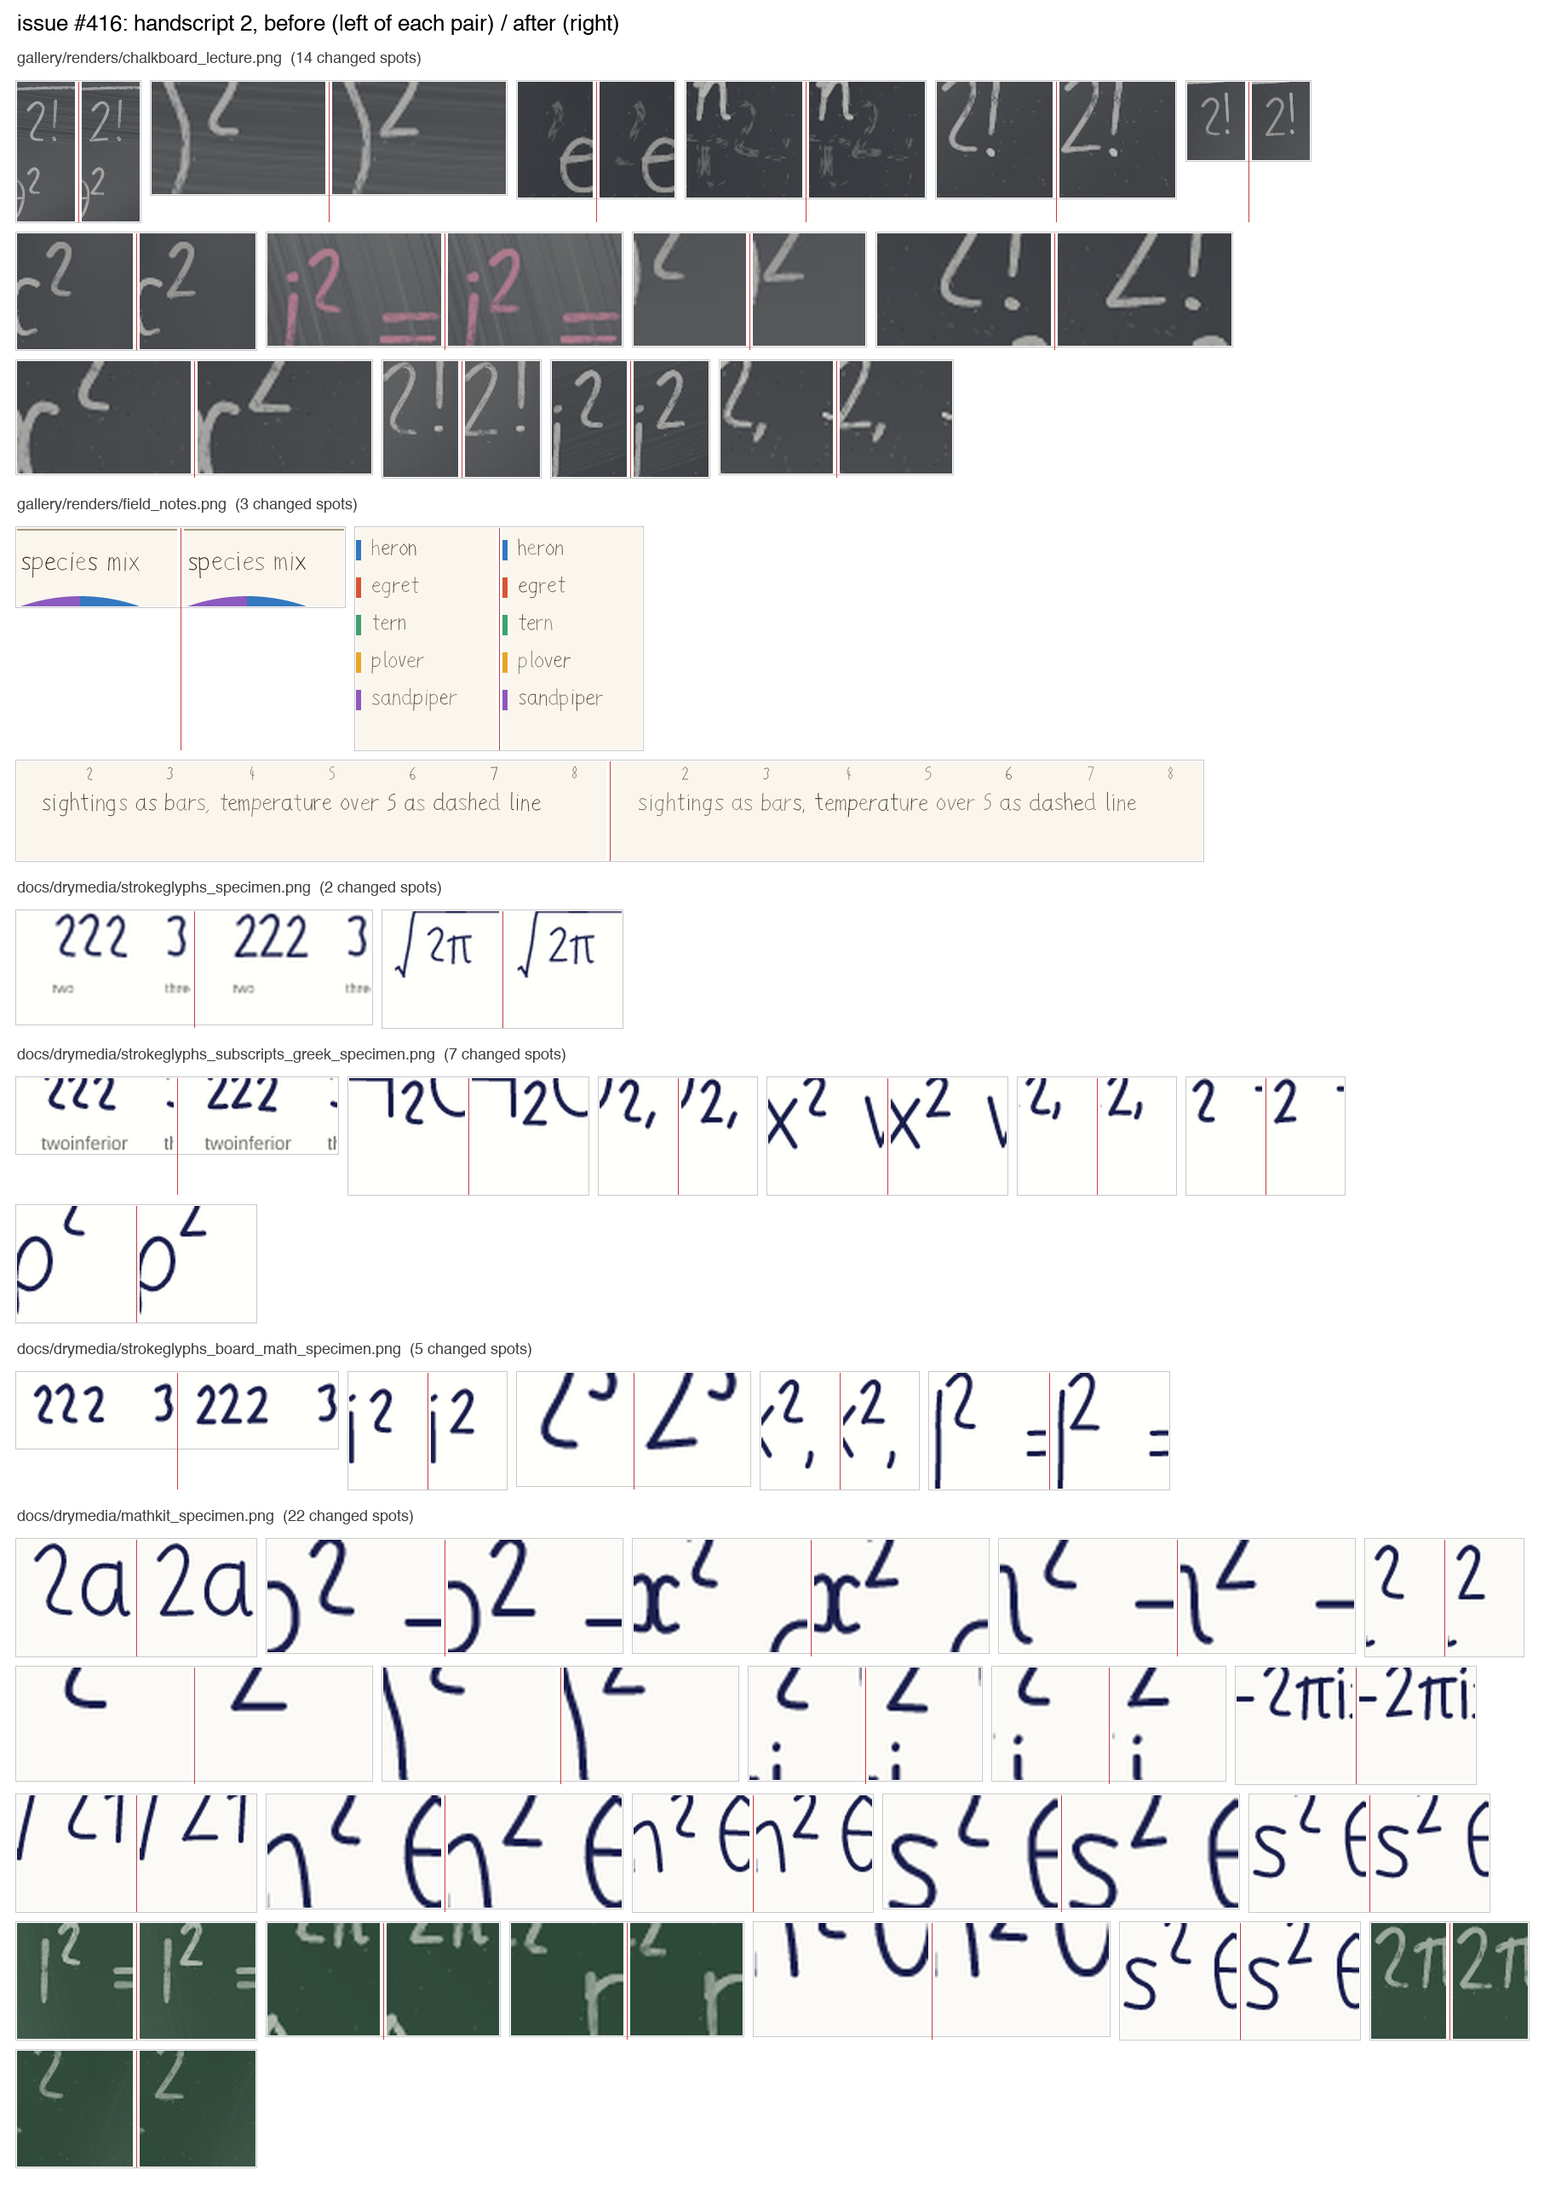
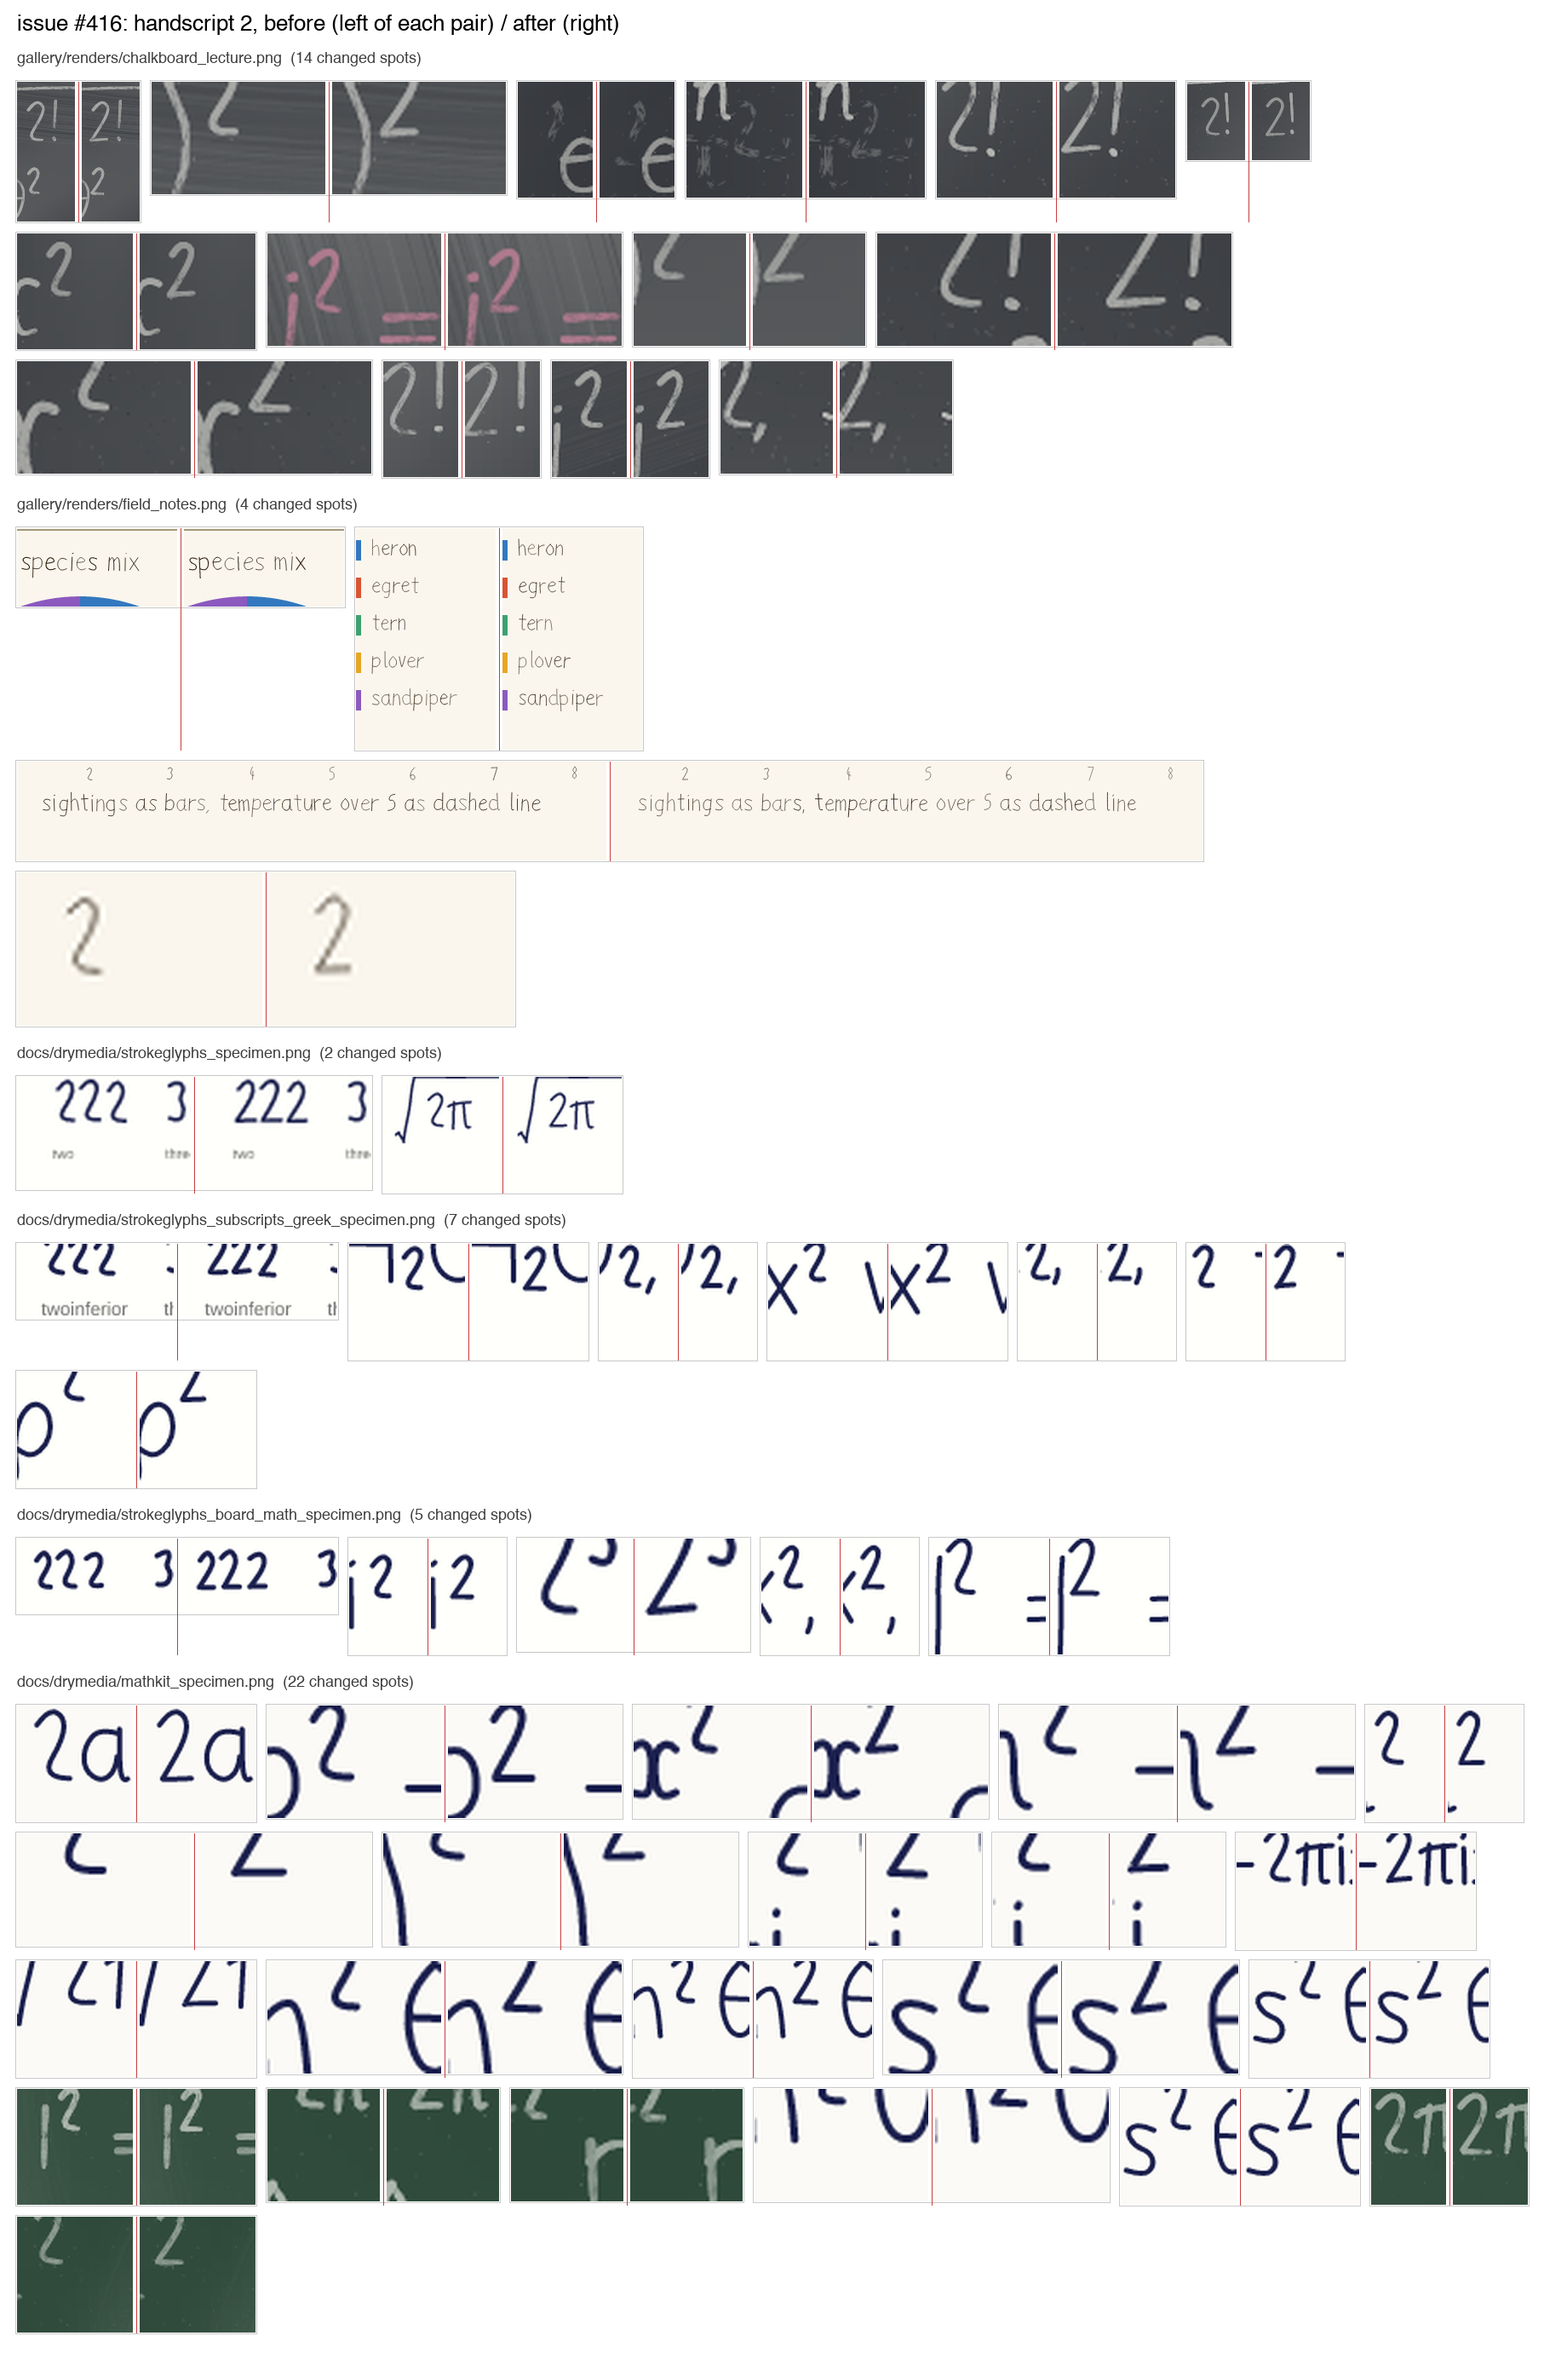
handscript 2: zoomed field_notes tile in the panel, notes on what was checked (#416)
Claude-Session: https://claude.ai/code/session_01GTbCLDB6QC7UV1i7qukUEL

diff --git a/notes/416-compare-panel.py b/notes/416-compare-panel.py
@@ -59,6 +59,8 @@ def clusters(a, b):
 
 PAD = 10
 ROWW = 1800
+# extra zoomed tiles (file, box, zoom) for spots too small to read at 1x
+ZOOMS = {'field_notes.png': [((230, 1024, 278, 1054), 6)]}
 sections = []
 for label, f in NAMES:
     a = Image.open(f'{B}/{f}').convert('RGB')
@@ -71,6 +73,10 @@ for label, f in NAMES:
         if z != 1:
             ca = ca.resize((ca.width * z, ca.height * z), Image.LANCZOS)
             cb = cb.resize((cb.width * z, cb.height * z), Image.LANCZOS)
+        pairs.append((ca, cb))
+    for box, z in ZOOMS.get(f, []):
+        ca = a.crop(box).resize(((box[2] - box[0]) * z, (box[3] - box[1]) * z), Image.LANCZOS)
+        cb = b.crop(box).resize(((box[2] - box[0]) * z, (box[3] - box[1]) * z), Image.LANCZOS)
         pairs.append((ca, cb))
     sections.append((label, pairs))
 

diff --git a/notes/416-handscript-two-base.md b/notes/416-handscript-two-base.md
@@ -17,7 +17,7 @@ The advance stays 420, so no line's layout moves. Each copy of the corner draws
 its own jitter, so the corner is a sharp point that shivers slightly, which
 reads as pen pressure and not as a defect (checked in the board-size renders in the panel).
 
-Variants rendered side by side at 90pt, with and without jitter: the plain
+Variants rendered side by side at 90pt, at the default jitter: the plain
 doubled corner (kept); a straighter diagonal (a lower second-to-last control
 point); an extra mid-diagonal point; an extra mid-base point. All the flat-base
 forms read as a 2; the plain doubled corner is the smallest change that does it,
@@ -26,7 +26,10 @@ so it won (maintainer: a clear improvement, not perfection).
 ## Consequences
 
 - Two more jitter draws per 2: in `hs-write` output every glyph after a 2
-  draws differently (field_notes: the axis labels and the caption beside them).
+  draws differently. In field_notes that is the whole run of text after the
+  first 2: the axis labels and caption, the "species mix" title and the
+  legend names (their letters are redrawn with new jitter, same words, same
+  layout; the panel shows each).
   strokeglyphs and chalkboard pieces seed per stroke, so there only the 2 moves.
 - `lib/strokeglyphs.ps` copies handscript's glyphs at load (`sginit`) and has
   no `/two` override, so its 2, the derived superscript and subscript 2 and
@@ -64,6 +67,11 @@ renders has a committed Ghostscript twin; a gs run of a handscript 2 (with
 
 `docs/two_compare_416.png` is the before/after panel: every changed spot, left
 is before, right is after. Built by `notes/416-compare-panel.py`.
+
+Checked and not affected: the site's rendered pages (`build_site.sh`) and the
+font gallery cards are built, not committed, and the handscript card has no
+digit; `scripts/handwrite.sh` output is not committed anywhere; the
+the Type 3 faces in `lib/fonts/` (circuitry, neon, ...) have their own digit tables and do not load handscript.
 
 Historical panels (`specimen_polish_298_compare.png`, `four_compare_351.png`)
 are left as they were.
